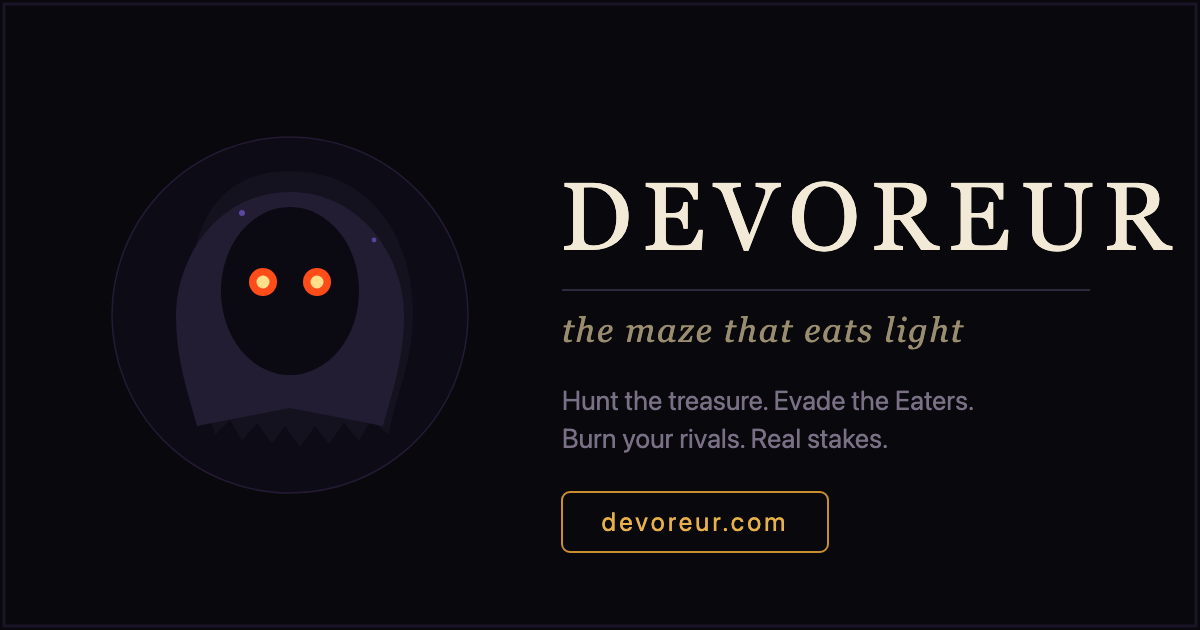
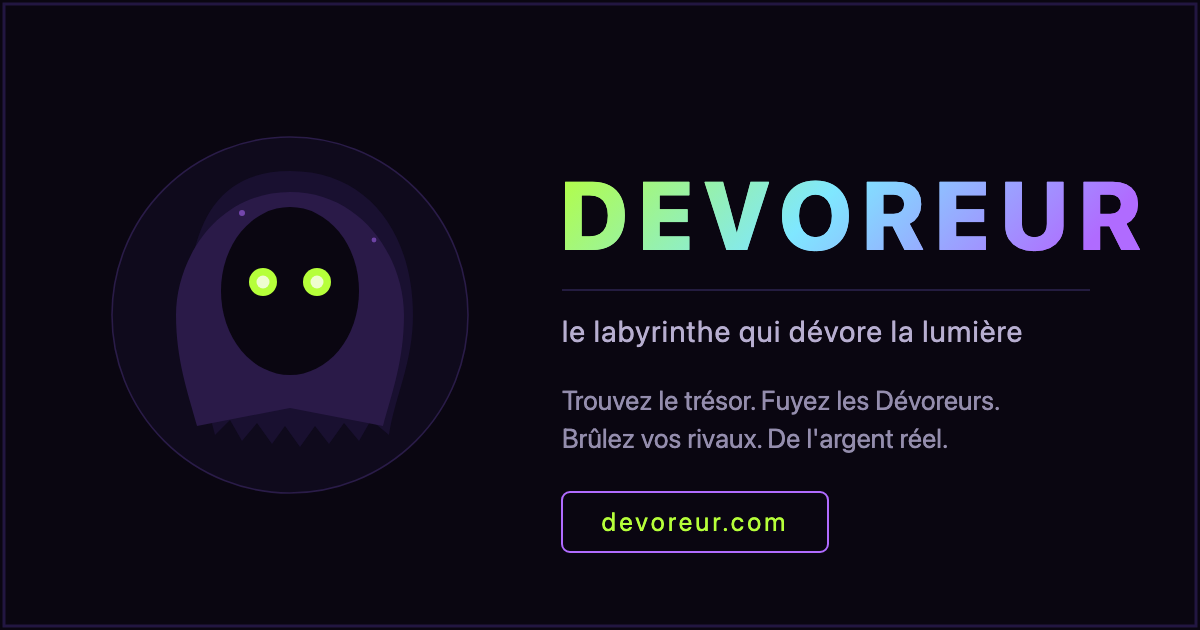
Recolour brand to the lime/purple theme; brand copy all French
The supplied logo assets used a warm gold/ember/cream serif look that clashed
with the app theme. Retinted every asset to the current palette and translated
all wordmark copy to French:
- Eater eyes: ember -> glowing lime. Backgrounds/cloak/strokes -> purple-black.
- DEVOREUR wordmark: cream serif -> the app's lime->cyan->purple gradient in a
  bold sans face (matches the in-app h1).
- Taglines translated: "le labyrinthe qui dévore la lumière" /
  "UNE CHASSE AU TRÉSOR DANS LE NOIR"; OG hook -> "Trouvez le trésor. Fuyez les
  Dévoreurs. Brûlez vos rivaux. De l'argent réel." No English left.
- Applied across favicon(s), eater-icon, logo-horizontal, title-lockup, social-og;
  re-inlined the lockup on the start screen; regenerated og-image.png (1200x630);
  OG/twitter meta text now French too.

No game or payment logic touched. Suite green (16 files).

Claude-Session: https://claude.ai/code/session_01RGzkssRBYMHws1XDoQ7Esv

diff --git a/index.html b/index.html
@@ -6,13 +6,13 @@
 <meta name="theme-color" content="#0a0611">
 <link rel="icon" type="image/svg+xml" href="/favicon.svg">
 <meta property="og:type" content="website">
-<meta property="og:title" content="Devoreur — the maze that eats light">
-<meta property="og:description" content="Hunt the treasure. Evade the Eaters. Burn your rivals. Real stakes.">
+<meta property="og:title" content="Devoreur — le labyrinthe qui dévore la lumière">
+<meta property="og:description" content="Trouvez le trésor. Fuyez les Dévoreurs. Brûlez vos rivaux. De l'argent réel.">
 <meta property="og:image" content="https://devoreur.com/og-image.png">
 <meta property="og:url" content="https://devoreur.com">
 <meta name="twitter:card" content="summary_large_image">
-<meta name="twitter:title" content="Devoreur — the maze that eats light">
-<meta name="twitter:description" content="Hunt the treasure. Evade the Eaters. Burn your rivals. Real stakes.">
+<meta name="twitter:title" content="Devoreur — le labyrinthe qui dévore la lumière">
+<meta name="twitter:description" content="Trouvez le trésor. Fuyez les Dévoreurs. Brûlez vos rivaux. De l'argent réel.">
 <meta name="twitter:image" content="https://devoreur.com/og-image.png">
 <title>Devoreur — le labyrinthe qui dévore la lumière</title>
 <style>
@@ -325,34 +325,34 @@
 </div>
 
 <div class="overlay" id="ovStart">
-  <svg class="titleLockup" viewBox="0 0 680 560" xmlns="http://www.w3.org/2000/svg">
+  <svg class="titleLockup" viewBox="0 0 680 560" xmlns="http://www.w3.org/2000/svg"><defs><linearGradient id="wm" x1="0" y1="0" x2="1" y2="0.18"><stop offset="0" stop-color="#b6ff3a"/><stop offset=".5" stop-color="#7fe7ff"/><stop offset="1" stop-color="#b06bff"/></linearGradient></defs>
 <path d="M 340 70
  C 408 70 444 126 444 194
  C 444 234 430 262 423 296
  L 411 286 L 402 306 L 391 288 L 380 308 L 369 290 L 358 310 L 346 292 L 340 314
  L 334 292 L 322 310 L 311 290 L 300 308 L 289 288 L 278 306 L 269 286 L 257 296
  C 250 262 236 234 236 194
- C 236 126 272 70 340 70 Z" fill="#15121f"/>
+ C 236 126 272 70 340 70 Z" fill="#191030"/>
 <path d="M 340 84
  C 402 84 432 134 432 194
  C 432 226 424 250 417 278
  L 340 264 L 263 278
  C 256 250 248 226 248 194
- C 248 134 278 84 340 84 Z" fill="#221d33"/>
-<ellipse cx="340" cy="170" rx="58" ry="70" fill="#0b0912"/>
-<circle cx="317" cy="162" r="11.5" fill="#ff4d1a"/>
-<circle cx="317" cy="162" r="5.5" fill="#ffe08a"/>
-<circle cx="363" cy="162" r="11.5" fill="#ff4d1a"/>
-<circle cx="363" cy="162" r="5.5" fill="#ffe08a"/>
-<path d="M 317 162 L 312 232" stroke="#ff4d1a" stroke-width="2" opacity="0.3" stroke-linecap="round"/>
-<path d="M 363 162 L 368 232" stroke="#ff4d1a" stroke-width="2" opacity="0.3" stroke-linecap="round"/>
-<circle cx="288" cy="110" r="2" fill="#8a6bff" opacity="0.55"/>
-<circle cx="395" cy="130" r="1.5" fill="#8a6bff" opacity="0.5"/>
-<circle cx="255" cy="185" r="1.5" fill="#8a6bff" opacity="0.4"/>
-<text x="340" y="430" text-anchor="middle" font-family="Georgia, 'Times New Roman', serif" font-size="76" fill="#f2ead6" letter-spacing="13">DEVOREUR</text>
-<line x1="230" y1="458" x2="450" y2="458" stroke="#3a3450" stroke-width="1"/>
-<text x="340" y="492" text-anchor="middle" font-family="Georgia, serif" font-style="italic" font-size="19" fill="#8a7d5f" letter-spacing="3">the maze that eats light</text>
-<text x="340" y="528" text-anchor="middle" font-family="Georgia, serif" font-size="13" fill="#5a5468" letter-spacing="6">TREASURE HUNT IN THE DARK</text>
+ C 248 134 278 84 340 84 Z" fill="#2a1a48"/>
+<ellipse cx="340" cy="170" rx="58" ry="70" fill="#0a0611"/>
+<circle cx="317" cy="162" r="11.5" fill="#b6ff3a"/>
+<circle cx="317" cy="162" r="5.5" fill="#eefdcf"/>
+<circle cx="363" cy="162" r="11.5" fill="#b6ff3a"/>
+<circle cx="363" cy="162" r="5.5" fill="#eefdcf"/>
+<path d="M 317 162 L 312 232" stroke="#b6ff3a" stroke-width="2" opacity="0.3" stroke-linecap="round"/>
+<path d="M 363 162 L 368 232" stroke="#b6ff3a" stroke-width="2" opacity="0.3" stroke-linecap="round"/>
+<circle cx="288" cy="110" r="2" fill="#b06bff" opacity="0.55"/>
+<circle cx="395" cy="130" r="1.5" fill="#b06bff" opacity="0.5"/>
+<circle cx="255" cy="185" r="1.5" fill="#b06bff" opacity="0.4"/>
+<text x="340" y="430" text-anchor="middle" font-family="system-ui,-apple-system,sans-serif" font-weight="800" font-size="76" fill="url(#wm)" letter-spacing="13">DEVOREUR</text>
+<line x1="230" y1="458" x2="450" y2="458" stroke="#2e2450" stroke-width="1"/>
+<text x="340" y="492" text-anchor="middle" font-family="system-ui,-apple-system,sans-serif" font-size="17" fill="#b7aed0" letter-spacing="1">le labyrinthe qui dévore la lumière</text>
+<text x="340" y="528" text-anchor="middle" font-family="system-ui,-apple-system,sans-serif" font-size="12.5" fill="#8079a0" letter-spacing="3">UNE CHASSE AU TRÉSOR DANS LE NOIR</text>
 </svg>
 
   <div id="authBox">